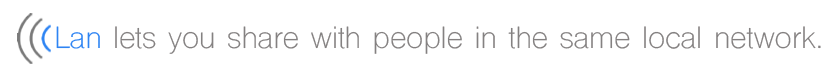
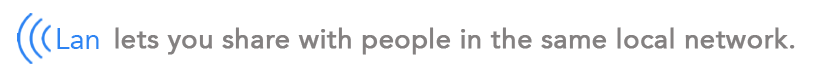
CLan text as a separate layer. New background images in gallery. Dark theme implementation started, to be improved.

Changed region(s): [[0.0, 0.2, 1.0, 0.9143]]

diff --git a/CLan/UsersWindow.xaml b/CLan/UsersWindow.xaml
@@ -4,14 +4,14 @@
         xmlns:d="http://schemas.microsoft.com/expression/blend/2008"
         xmlns:mc="http://schemas.openxmlformats.org/markup-compatibility/2006"
         xmlns:local="clr-namespace:CLan"
-        xmlns:extensions="clr-namespace:CLan.Extensions"
+        xmlns:extensions="clr-namespace:CLan.Extensions;assembly="
         mc:Ignorable="d"
         Title="CLan - Share instantly!" 
        >
-    
+
 
     <Page.Resources>
-        
+
         <Style x:Key="MyButton" TargetType="Button">
             <Setter Property="OverridesDefaultStyle" Value="True" />
             <Setter Property="Cursor" Value="Hand" />
@@ -33,12 +33,12 @@
             </Setter>
         </Style>
     </Page.Resources>
-    
+
     <Grid  ShowGridLines="False" VerticalAlignment="Stretch">
-        
+
         <Grid ShowGridLines="False" VerticalAlignment="Stretch" HorizontalAlignment="Stretch">
             <ToggleButton x:Name="PrivateMode" Height="45"  BorderThickness="0" VerticalAlignment="Top" HorizontalAlignment="Right" FontSize="15" Width="152" Background="#FF66B5F8" Foreground="#FFA4D5FF" Margin="0,0,-28,0" Checked="PrivateMode_Checked" Unchecked="PrivateMode_Unchecked"/>
-            <Button x:Name="_continue" Click="ContinueClick" Content="Send" Height="36"  BorderThickness="0"   HorizontalAlignment="Center" VerticalAlignment="Center" FontSize="15" Background="#FF66B5F8" Width="120" BorderBrush="#FF33A0EC" Margin="232,338,248,26"/>
+            <Button x:Name="_continue" Click="ContinueClick" Content="Send" Height="36"  BorderThickness="0"   HorizontalAlignment="Center" VerticalAlignment="Center" FontSize="15" Background="#FF66B5F8" Width="120" BorderBrush="#FF33A0EC" Margin="249,406,231,95"/>
 
             <TextBlock TextWrapping="Wrap" Text="Private" Margin="0,33,31,0" Foreground="#FFA0A0A0" VerticalAlignment="Top" HorizontalAlignment="Right"/>
 
@@ -74,7 +74,8 @@
                     </DataTemplate>
                 </ListView.ItemTemplate>
             </ListView>
-            
+            <Image Margin="111,496,94,5" Source="Images/label.png" Stretch="Fill" HorizontalAlignment="Center" VerticalAlignment="Center" Height="36" Width="395"/>
+
 
             <VirtualizingStackPanel x:Name="_SlidingMenu" Background="#FFEFF4F9" HorizontalAlignment="Left" Width="307" Margin="-265,0,0,0"  VerticalAlignment="Stretch">
                 <Border Name="border">
@@ -85,6 +86,7 @@
                 <Button x:Name="userImage" Content="" HorizontalAlignment="Left" Margin="21,25.5,0,-34.64" VerticalAlignment="Top" Width="101" Height="108.38" BorderThickness="0" Style="{StaticResource MyButton}">
                     <Button.Background>
                         <ImageBrush ImageSource="{extensions:SettingBinding PicturePath}"/>
+                       
                     </Button.Background>
                 </Button>
                 <TextBlock  Margin="42,13,0,0" TextWrapping="Wrap" Text="online" VerticalAlignment="Top" FontSize="10" Foreground="#FF76BFFB" Width="70"/>
@@ -126,16 +128,19 @@
                     </Button.Background>
 
                 </Button>
-                <Button x:Name="ChangeBG" Content="Change Background" HorizontalAlignment="Left" Margin="136,-70,0,0" VerticalAlignment="Top" Width="115" Height="21"  BorderBrush="{x:Null}" Background="#FF76BFFB" Foreground="White" BorderThickness="0" FontSize="10" Click="ChangeBG_Click" />
-                <CheckBox  Content="Night mode" Margin="25,5,0,0" FontSize="10"/>
+                <Button x:Name="ChangeBGgallery" Content="Choose from gallery" HorizontalAlignment="Left" Margin="107,-60,0,0" VerticalAlignment="Top" Width="156" Height="25"  BorderBrush="{x:Null}" Foreground="#FF76BFFB" Background="Transparent" BorderThickness="0" FontSize="10" Click="ChangeBGgallery_Click" />
+                <Button x:Name="ChangeBGfile" Content="Choose from file" HorizontalAlignment="Left" Margin="107,-40,0,0" VerticalAlignment="Top" Width="140" Height="26"  BorderBrush="{x:Null}" Foreground="#FF76BFFB" Background="Transparent" BorderThickness="0" FontSize="10" Click="ChangeBGfile_Click"  />
+
+                <CheckBox  Content="Night mode" Margin="25,5,0,0" FontSize="10" Checked="_nightMode" Unchecked="_notNightMode"/>
 
 
                 <Button Style="{StaticResource MyButton}" HorizontalAlignment="Left" VerticalAlignment="Top"  Height="48.96" FontSize="15" BorderThickness="0" Click="Settings_Click"  Width="106.5" Margin="232,-542,0,0">
                     <Image Source="images/menu.png" Height="33" Width="22.5"/>
                 </Button>
             </VirtualizingStackPanel>
+
         </Grid>
         <Grid x:Name="TransparencyLayer" Visibility="Collapsed" Opacity="0.6" Height="670" Background="White" />
-        
+
     </Grid>
 </Page>

diff --git a/CLan/SelectBackground.xaml b/CLan/SelectBackground.xaml
@@ -1,0 +1,27 @@
+<Window x:Class="CLan.SelectBackground"
+        xmlns="http://schemas.microsoft.com/winfx/2006/xaml/presentation"
+        xmlns:x="http://schemas.microsoft.com/winfx/2006/xaml"
+        xmlns:d="http://schemas.microsoft.com/expression/blend/2008"
+        xmlns:mc="http://schemas.openxmlformats.org/markup-compatibility/2006"
+        xmlns:local="clr-namespace:CLan"
+        xmlns:extensions="clr-namespace:CLan.Extensions"
+        mc:Ignorable="d"
+        Title="Select Background" Height="420" Width="600">
+    <ListView Name="Thumbnails" >
+        <ListView.ItemsPanel>
+            <ItemsPanelTemplate>
+                <UniformGrid Columns="3" HorizontalAlignment="Center" VerticalAlignment="Center" />
+            </ItemsPanelTemplate>
+        </ListView.ItemsPanel>
+        <ListView.ItemTemplate>
+            <DataTemplate>
+                <Image Source="{Binding}" Height="100" Margin="5" HorizontalAlignment="Center" VerticalAlignment="Center"/>
+            </DataTemplate>
+        </ListView.ItemTemplate>
+        <ListView.ItemContainerStyle>
+            <Style TargetType="ListViewItem">
+                <EventSetter Event="MouseDoubleClick" Handler="listViewItem_MouseDoubleClick" />
+            </Style>
+        </ListView.ItemContainerStyle>
+    </ListView>
+</Window>

diff --git a/CLan/MainWindow.xaml b/CLan/MainWindow.xaml
@@ -8,12 +8,10 @@
         mc:Ignorable="d"
         Title="CLan - Share instantly!"
         Width="900" Height="700">
-        
-    
-   
+
     <Window.Background>
-        <ImageBrush ImageSource="{extensions:SettingBinding BackgroundPath}" />
+        <ImageBrush ImageSource="{extensions:SettingBinding BackgroundPath}" Stretch="UniformToFill" />
     </Window.Background>
-    
-    <Frame x:Name="_mainFrame" NavigationUIVisibility="Hidden"/>
+
+    <Frame x:Name="_mainFrame" NavigationUIVisibility="Hidden" />
 </Window>

diff --git a/CLan/Properties/Settings.Designer.cs b/CLan/Properties/Settings.Designer.cs
@@ -1,10 +1,10 @@
 //------------------------------------------------------------------------------
 // <auto-generated>
-//     Il codice è stato generato da uno strumento.
-//     Versione runtime:4.0.30319.42000
+//     This code was generated by a tool.
+//     Runtime Version:4.0.30319.42000
 //
-//     Le modifiche apportate a questo file possono provocare un comportamento non corretto e andranno perse se
-//     il codice viene rigenerato.
+//     Changes to this file may cause incorrect behavior and will be lost if
+//     the code is regenerated.
 // </auto-generated>
 //------------------------------------------------------------------------------
 
@@ -12,7 +12,7 @@ namespace CLan.Properties {
     
     
     [global::System.Runtime.CompilerServices.CompilerGeneratedAttribute()]
-    [global::System.CodeDom.Compiler.GeneratedCodeAttribute("Microsoft.VisualStudio.Editors.SettingsDesigner.SettingsSingleFileGenerator", "15.1.0.0")]
+    [global::System.CodeDom.Compiler.GeneratedCodeAttribute("Microsoft.VisualStudio.Editors.SettingsDesigner.SettingsSingleFileGenerator", "15.3.0.0")]
     internal sealed partial class Settings : global::System.Configuration.ApplicationSettingsBase {
         
         private static Settings defaultInstance = ((Settings)(global::System.Configuration.ApplicationSettingsBase.Synchronized(new Settings())));
@@ -133,13 +133,25 @@ namespace CLan.Properties {
         
         [global::System.Configuration.UserScopedSettingAttribute()]
         [global::System.Diagnostics.DebuggerNonUserCodeAttribute()]
-        [global::System.Configuration.DefaultSettingValueAttribute("/Images/background.jpg")]
-        public string CustomBackgroundPath {
+        [global::System.Configuration.DefaultSettingValueAttribute("/Images/darkTheme.jpg")]
+        public string DarkBackgroundPath {
             get {
-                return ((string)(this["CustomBackgroundPath"]));
+                return ((string)(this["DarkBackgroundPath"]));
             }
             set {
-                this["CustomBackgroundPath"] = value;
+                this["DarkBackgroundPath"] = value;
+            }
+        }
+        
+        [global::System.Configuration.UserScopedSettingAttribute()]
+        [global::System.Diagnostics.DebuggerNonUserCodeAttribute()]
+        [global::System.Configuration.DefaultSettingValueAttribute("/Images/background.jpg")]
+        public string SwapBackgroundPath {
+            get {
+                return ((string)(this["SwapBackgroundPath"]));
+            }
+            set {
+                this["SwapBackgroundPath"] = value;
             }
         }
     }

diff --git a/CLan/UsersWindow.xaml.cs b/CLan/UsersWindow.xaml.cs
@@ -158,7 +158,7 @@ namespace CLan
             _continue.IsEnabled = true;
         }
 
-        private void ChangeBG_Click(object sender, RoutedEventArgs e)
+        private void ChangeBGfile_Click(object sender, RoutedEventArgs e)
         {
             OpenFileDialog fd = new OpenFileDialog();
             fd.Filter = "Image files (*.jpg, *.jpeg, *.jpe, *.jfif, *.png) | *.jpg; *.jpeg; *.jpe; *.jfif; *.png";
@@ -173,15 +173,30 @@ namespace CLan
 
         private void ChangeBGgallery_Click(object sender, RoutedEventArgs e)
         {
-            OpenFileDialog fd = new OpenFileDialog();
-            fd.Filter = "Image files (*.jpg, *.jpeg, *.jpe, *.jfif, *.png) | *.jpg; *.jpeg; *.jpe; *.jfif; *.png";
-
-            if (fd.ShowDialog() == DialogResult.OK)
+            foreach (Window w in App.Current.Windows)
             {
-                string fileName = fd.FileName;
-                Properties.Settings.Default.BackgroundPath = fileName;
-
+                if (w is SelectBackground)
+                {
+                    isWindowOpen = true;
+                    w.Activate();
+                }
             }
+
+            if (!isWindowOpen)
+            {
+                SelectBackground newwindow = new SelectBackground();
+                newwindow.Show();
+            }
+        }
+
+        private void _nightMode(object sender, RoutedEventArgs e)
+        {
+            Properties.Settings.Default.BackgroundPath = Properties.Settings.Default.DarkBackgroundPath;
+        }
+
+        private void _notNightMode(object sender, RoutedEventArgs e)
+        {
+            Properties.Settings.Default.BackgroundPath = Properties.Settings.Default.SwapBackgroundPath;
         }
     }
 }

diff --git a/CLan/SelectBackground.xaml.cs b/CLan/SelectBackground.xaml.cs
@@ -1,0 +1,38 @@
+using System;
+using System.IO;
+using System.Reflection;
+using System.Windows;
+using System.Windows.Controls;
+using System.Windows.Input;
+using System.Windows.Media.Imaging;
+
+namespace CLan
+{
+    /// <summary>
+    /// Interaction logic for Window1.xaml
+    /// </summary>
+    public partial class SelectBackground : Window
+    {
+        public SelectBackground()
+        {
+            InitializeComponent();
+            foreach (string s in Assembly.GetExecutingAssembly().GetManifestResourceNames())
+            {
+                if (s.StartsWith("CLan.UserAvatars."))
+                {
+                    Thumbnails.Items.Add(new BitmapImage(new Uri("pack://application:,,,/Images/BackgroundImages//" + s.Substring("CLan.UserAvatars.".Length))));
+                }
+            }
+        }
+
+        private void listViewItem_MouseDoubleClick(object sender, MouseButtonEventArgs e)
+        {
+            if (Thumbnails.SelectedItems.Count > 0)
+            {
+                string imgname = new FileInfo(((sender as ListViewItem).Content as BitmapImage).UriSource.AbsolutePath).Name;
+                Properties.Settings.Default.PicturePath = "Images/BackgroundImages/" + imgname;
+            }
+            this.Close();
+        }
+    }
+}

diff --git a/CLan/App.xaml.cs b/CLan/App.xaml.cs
@@ -407,10 +407,11 @@ namespace CLan
         {
             NotifyIcon.ContextMenuStrip = new ContextMenuStrip();
             NotifyIcon.ContextMenuStrip.Items.Add("Apri CLan").Click += (s, e) => ShowUsersWindow();
-            NotifyIcon.ContextMenuStrip.Items.Add("Impostazioni").Click += (s, e) => ShowSettings();
+            //NotifyIcon.ContextMenuStrip.Items.Add("Impostazioni").Click += (s, e) => ShowSettings();
             NotifyIcon.ContextMenuStrip.Items.Add("Attiva modalità privata").Click += (s, e) => TraySwitchToPrivate(s);
             NotifyIcon.ContextMenuStrip.Items.Add("Esci").Click += (s, e) => Current.Shutdown();
         }
+        /*
         private void ShowSettings()
         {
             if (mw.IsVisible)
@@ -423,6 +424,7 @@ namespace CLan
                 mw.Show();
             mw._mainFrame.Navigate(new SettingsPage());
         }
+        */
         private void TraySwitchToPrivate(object sender)
         {
             UDPManager.GoOffline();
